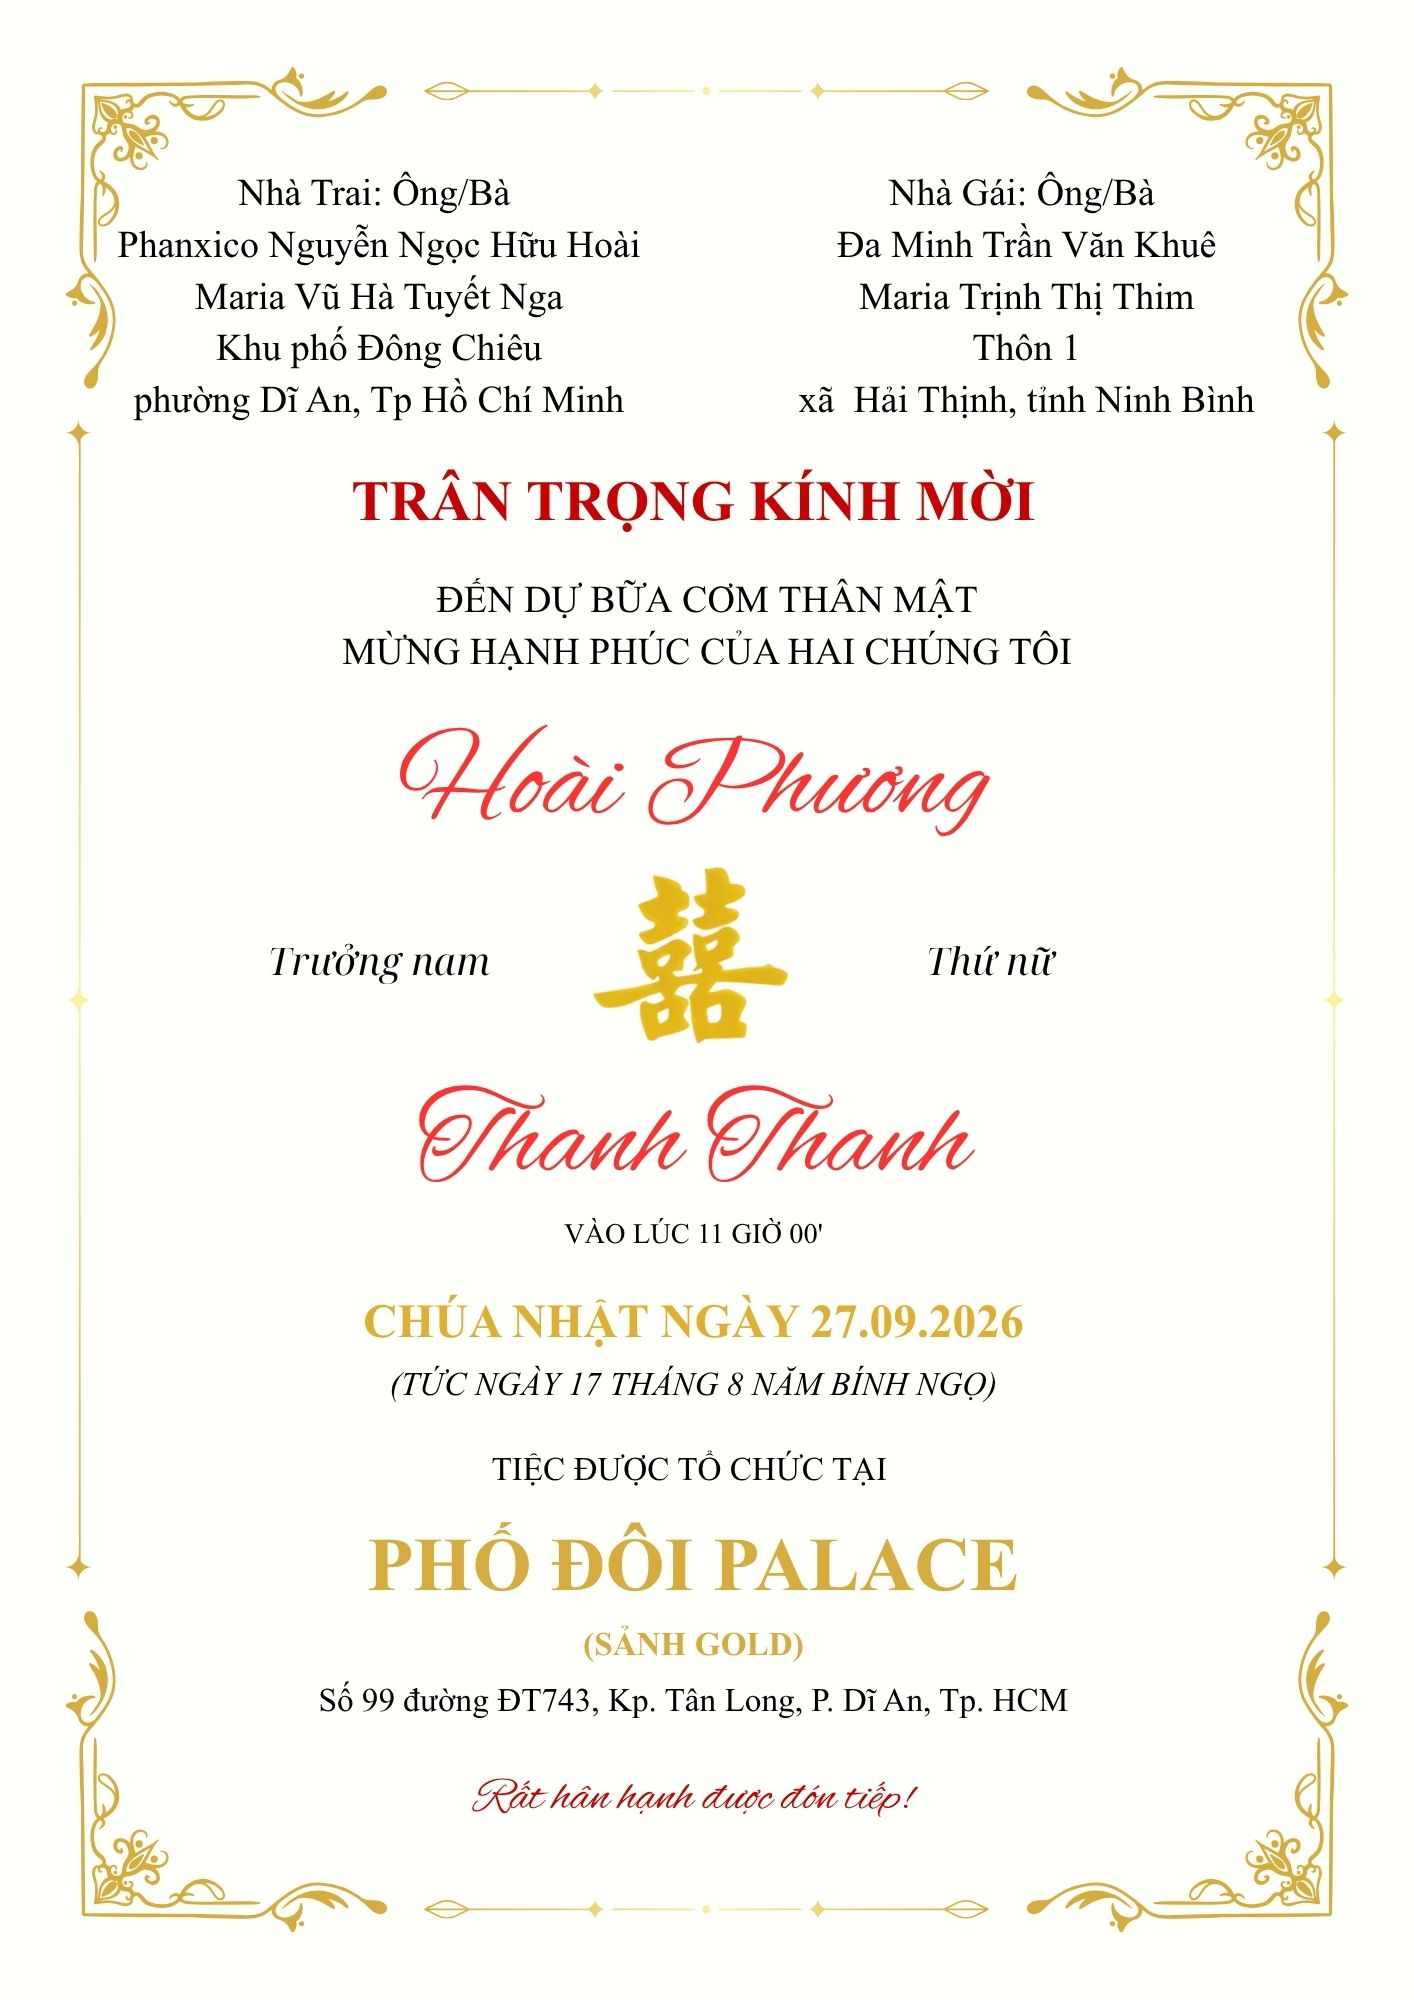
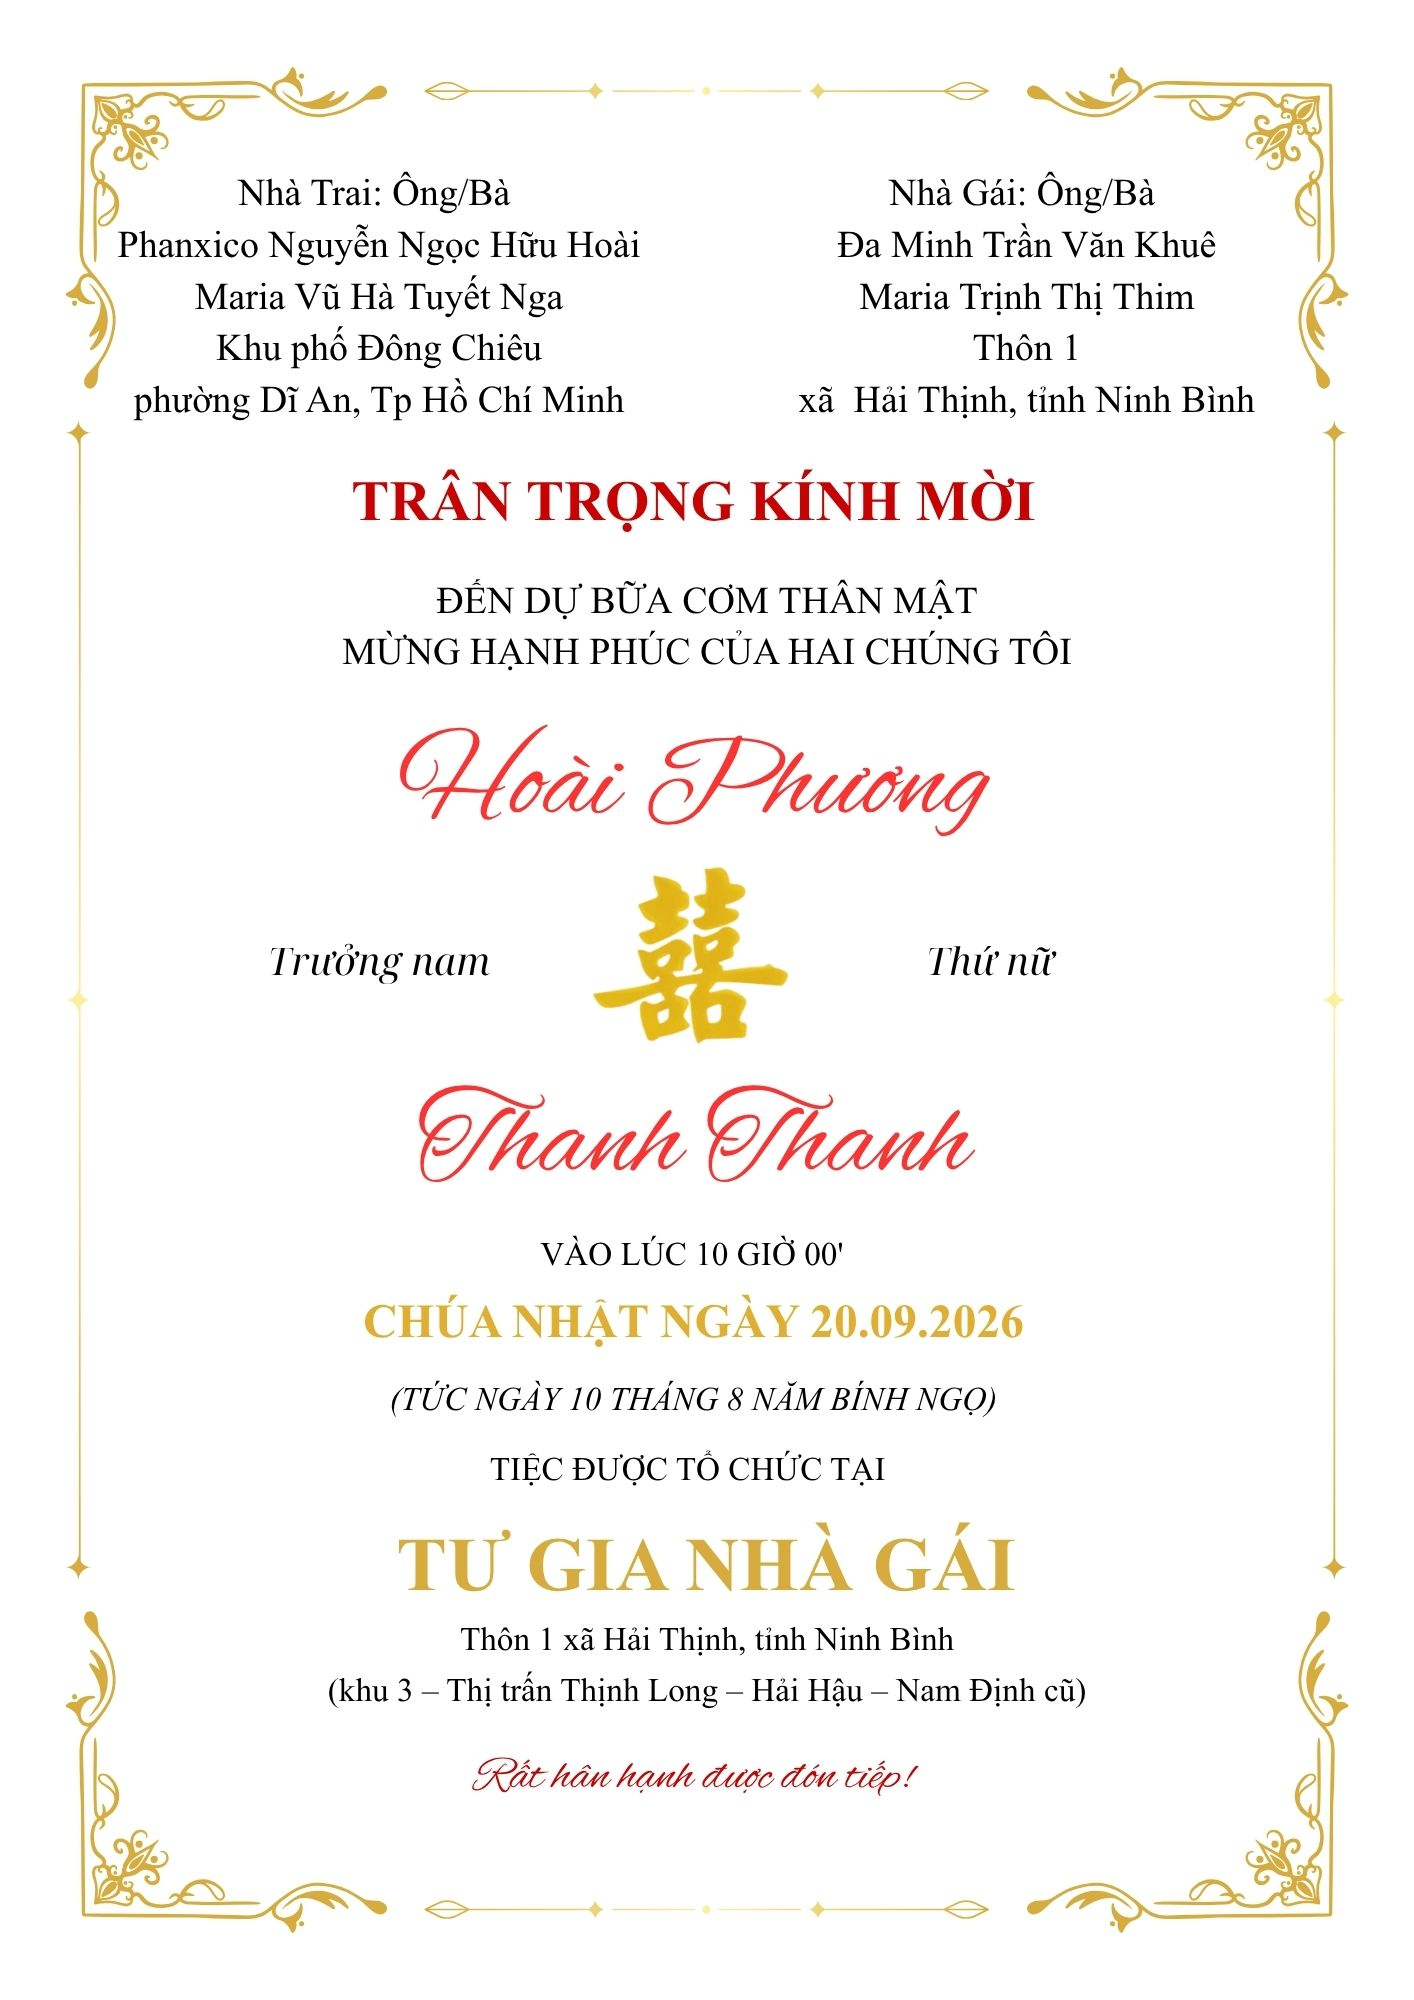
fix info

diff --git a/index.html b/index.html
@@ -62,7 +62,7 @@
                 <p>Thứ nữ</p>
                 <p>Con ông: Đa Minh Trần Văn Khuê<br>
                 Con bà: Maria Trịnh Thị Thim<br>
-                Thôn 1, xã Hải Thịnh, tỉnh Ninh Bình</p>
+                Thôn 1, Xã Hải Thịnh, Tỉnh Ninh Bình</p>
                 <img src="images/bride.jpg">
             </div>
         </div>
